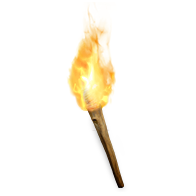
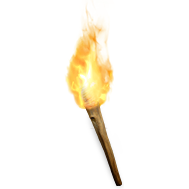
styling changes

Changed region(s): [[0.3704, 0.0529, 0.6614, 1.0], [0.3439, 0.2381, 0.4233, 0.4233], [0.3704, 0.4233, 0.3968, 0.4497]]

diff --git a/style.css b/style.css
@@ -353,6 +353,7 @@ main .container img:not(:last-of-type) {
     background-image: url(img/torch.png);
     background-repeat:no-repeat;
     background-position:center;
+    background-size:container;
 }
 .games_container .space {
   background: transparent;
@@ -400,6 +401,7 @@ main .container img:not(:last-of-type) {
     margin-bottom:20px;
 }
 body.games {
+    color:#948e76;
     background-color:#51514f;
 }
 body.games main {
